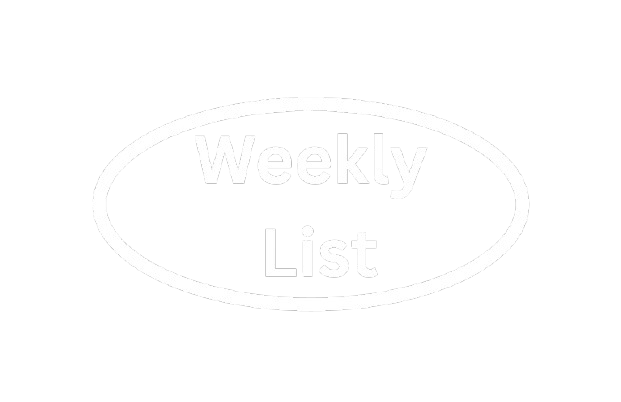
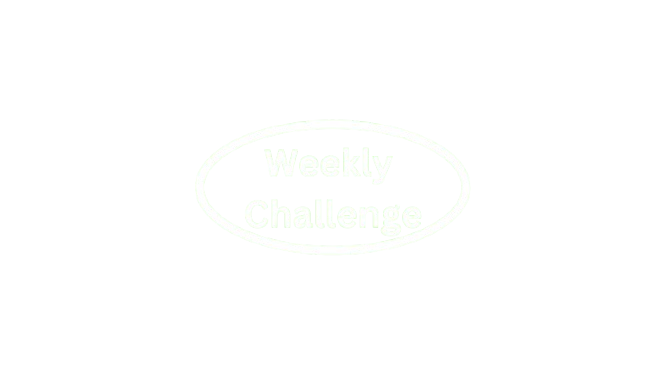
developed the mood selection feature

Changed region(s): [[0.5507, 0.4107, 0.5813, 0.44], [0.4895, 0.3813, 0.5201, 0.4107]]

diff --git a/newTab.js b/newTab.js
@@ -11,11 +11,16 @@ document.addEventListener("DOMContentLoaded", () => {
   const resetYesButton = document.getElementById("reset-yes");
   const resetNoButton = document.getElementById("reset-no");
 
+  // Mood selection elements
+  const moodContainer = document.getElementById("mood-container");
+  const moodOptions = document.querySelectorAll(".mood-option");
+
   // for controlling when hovers are active
   let hoverListeners = [];
 
   // Initial background image with 5 deers
   const initialBackground = "assets/original.jpg";
+
 
   // Background images for each category
   const backgroundSets = {
@@ -118,8 +123,8 @@ document.addEventListener("DOMContentLoaded", () => {
     },
     {
       id: "deer6", // Unique ID for the new hover area
-      top: 350, // Adjust the top position to place it in the top right-hand corner
-      left: 850, // Adjust the left position to place it in the top right-hand corner
+      top: 15, // Adjust the top position to place it in the top right-hand corner
+      left: 1500, // Adjust the left position to place it in the top right-hand corner
       width: 150, // Adjust the width of the hover area
       height: 150, // Adjust the height of the hover area
       circleImage: "assets/circle_somethingelse.png", // New image for the hover area
@@ -136,18 +141,25 @@ document.addEventListener("DOMContentLoaded", () => {
   }
 
   deerAreas.forEach((area) => {
+    
     const circle = document.getElementById(`${area.id}-circle`);
     circle.style.backgroundImage = `url(${area.circleImage})`;
+    
+    if (area.id === "deer6") {
+      circle.classList.add("active");
+    }
 
     const circleWidth = getComputedStyle(circle).width || "200px";
     const size = parseInt(circleWidth);
     circle.style.left = `${area.left + area.width / 2 - size / 2}px`;
     circle.style.top = `${area.top + area.height / 2 - size / 2}px`;
 
+
     const checkHover = (e) => {
       const mouseX = e.pageX;
       const mouseY = e.pageY;
 
+      
       if (
         mouseX >= area.left &&
         mouseX <= area.left + area.width &&
@@ -156,7 +168,9 @@ document.addEventListener("DOMContentLoaded", () => {
       ) {
         circle.classList.add("active");
       } else {
-        circle.classList.remove("active");
+        if (area.id !== "deer6") {
+          circle.classList.remove("active");
+        }
       }
     };
 
@@ -351,11 +365,9 @@ document.addEventListener("DOMContentLoaded", () => {
     ],
 
     weekly: [
-      "Drink 8 cups of water",
-      "Go to the gym 5 days in the week",
+      "Drink 8 glasses of water each day",
+      "Take a 10-minute walk daily.",
       "journal every morning",
-      "meditate",
-      "finish the homework"
     ]
   };
 
@@ -385,7 +397,17 @@ document.addEventListener("DOMContentLoaded", () => {
         categoriesHidden,
         isFinalImage,
         selectedCategory,
+        selectedMood,
       } = data.state;
+
+      // Set the selected mood if it exists
+      if (selectedMood) {
+        moodOptions.forEach(option => {
+          if (option.dataset.mood === selectedMood) {
+            option.classList.add("selected");
+          }
+        });
+      }
 
       if (isFinalImage) {
         changeBackgroundWithSlide(
@@ -526,7 +548,10 @@ document.addEventListener("DOMContentLoaded", () => {
     // Reattach hover listeners
     deerAreas.forEach((area) => {
       const circle = document.getElementById(`${area.id}-circle`);
-
+      
+      if (area.id === "deer6") {
+        circle.classList.add("active");
+      }
       const checkHover = (e) => {
         const mouseX = e.pageX;
         const mouseY = e.pageY;
@@ -539,7 +564,9 @@ document.addEventListener("DOMContentLoaded", () => {
         ) {
           circle.classList.add("active");
         } else {
-          circle.classList.remove("active");
+          if(area.id !== "deer6") {
+            circle.classList.remove("active");
+          }
         }
       };
 
@@ -632,8 +659,8 @@ document.addEventListener("DOMContentLoaded", () => {
     tasksHeader.id = "tasks-header";
     if(category == "others") {
       tasksHeader.innerHTML = `
-      <h1 class="task-title"> Weekly list</h1>
-      <p class="task-subtitle">some tasks to help you feel good</p>
+      <h1 class="task-title"> Weekly Challenges</h1>
+      <p class="task-subtitle">Ready for a challenge?</p>
     `;
     } else {
       tasksHeader.innerHTML = `
@@ -964,4 +991,29 @@ document.addEventListener("DOMContentLoaded", () => {
 
     tasksContainer.classList.remove("hidden");
   }
+
+  // Mood selection functionality
+  moodOptions.forEach(option => {
+    option.addEventListener("click", () => {
+      moodOptions.forEach(opt => opt.classList.remove("selected"));
+      option.classList.add("selected");
+      
+      chrome.storage.local.get("state", (data) => {
+        if (data.state) {
+          chrome.storage.local.set({
+            state: {
+              ...data.state,
+              selectedMood: option.dataset.mood
+            }
+          });
+        } else {
+          chrome.storage.local.set({
+            state: {
+              selectedMood: option.dataset.mood
+            }
+          });
+        }
+      });
+    });
+  });
 });

diff --git a/styles.css b/styles.css
@@ -487,4 +487,51 @@ input[type="checkbox"]:checked+.task-text {
     text-shadow: 0 2px 8px rgba(0, 0, 0, 0.4);
     opacity: 0.95;
     animation: welcomeFadeIn 1s ease-out forwards;
-    }
+}
+
+/* Mood Selection Styles */
+#mood-container {
+    position: fixed;
+    top: 850px;
+    right: 1430px;
+    display: flex;
+    gap: 12px;
+    background: rgba(255, 255, 255, 0.7);
+    backdrop-filter: blur(10px);
+    -webkit-backdrop-filter: blur(10px);
+    border-radius: 24px;
+    padding: 12px;
+    box-shadow: 0 8px 32px rgba(0, 0, 0, 0.1);
+    border: 1px solid rgba(255, 255, 255, 0.3);
+}
+
+.mood-option {
+    display: flex;
+    flex-direction: column;
+    align-items: center;
+    gap: 4px;
+    padding: 8px 12px;
+    border-radius: 12px;
+    cursor: pointer;
+    transition: all 0.3s ease;
+}
+
+.mood-option:hover {
+    background: rgba(255, 255, 255, 0.9);
+    transform: translateY(-2px);
+}
+
+.mood-option.selected {
+    background: rgba(255, 255, 255, 0.9);
+    box-shadow: 0 4px 12px rgba(0, 0, 0, 0.1);
+}
+
+.mood-emoji {
+    font-size: 24px;
+}
+
+.mood-label {
+    font-size: 12px;
+    color: #2c3e50;
+    font-weight: 500;
+}

diff --git a/newTab.html b/newTab.html
@@ -15,6 +15,22 @@
   <body>
     <h1 id="welcome-message">Who do you want to care for today?</h1>
 
+    <!-- Mood Selection -->
+    <div id="mood-container">
+      <div class="mood-option" data-mood="happy">
+        <span class="mood-emoji">😊</span>
+        <span class="mood-label">Happy</span>
+      </div>
+      <div class="mood-option" data-mood="neutral">
+        <span class="mood-emoji">😐</span>
+        <span class="mood-label">Neutral</span>
+      </div>
+      <div class="mood-option" data-mood="stressed">
+        <span class="mood-emoji">😫</span>
+        <span class="mood-label">Stressed</span>
+      </div>
+    </div>
+
     <!-- 
   <div id="deer1-circle" class="deer-circle"></div>
   <div id="deer2-circle" class="deer-circle"></div>
